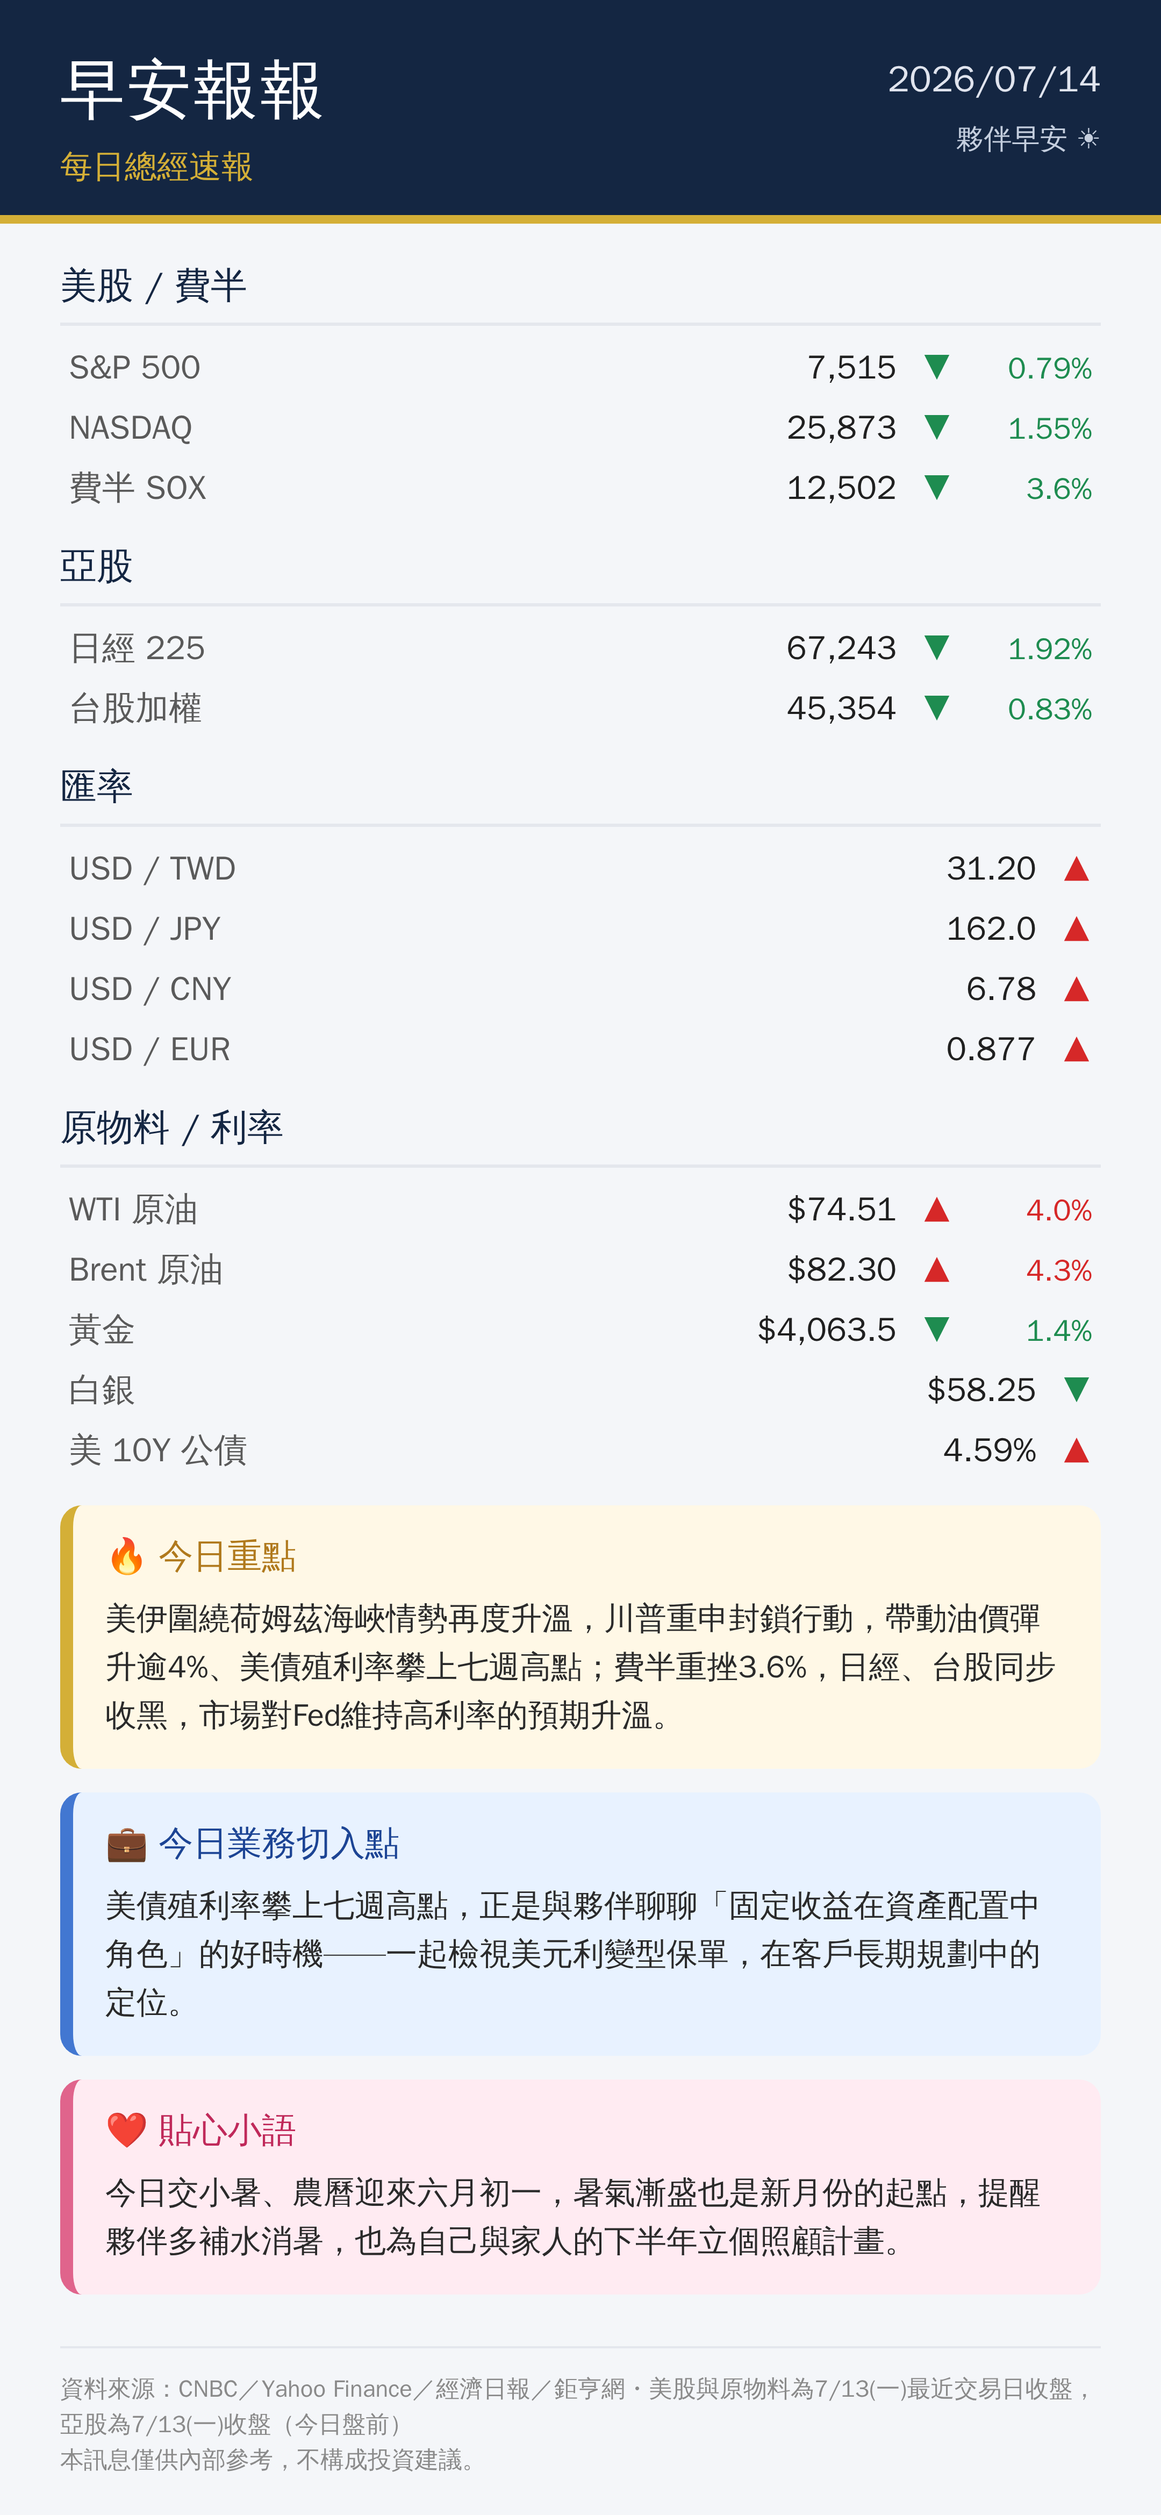
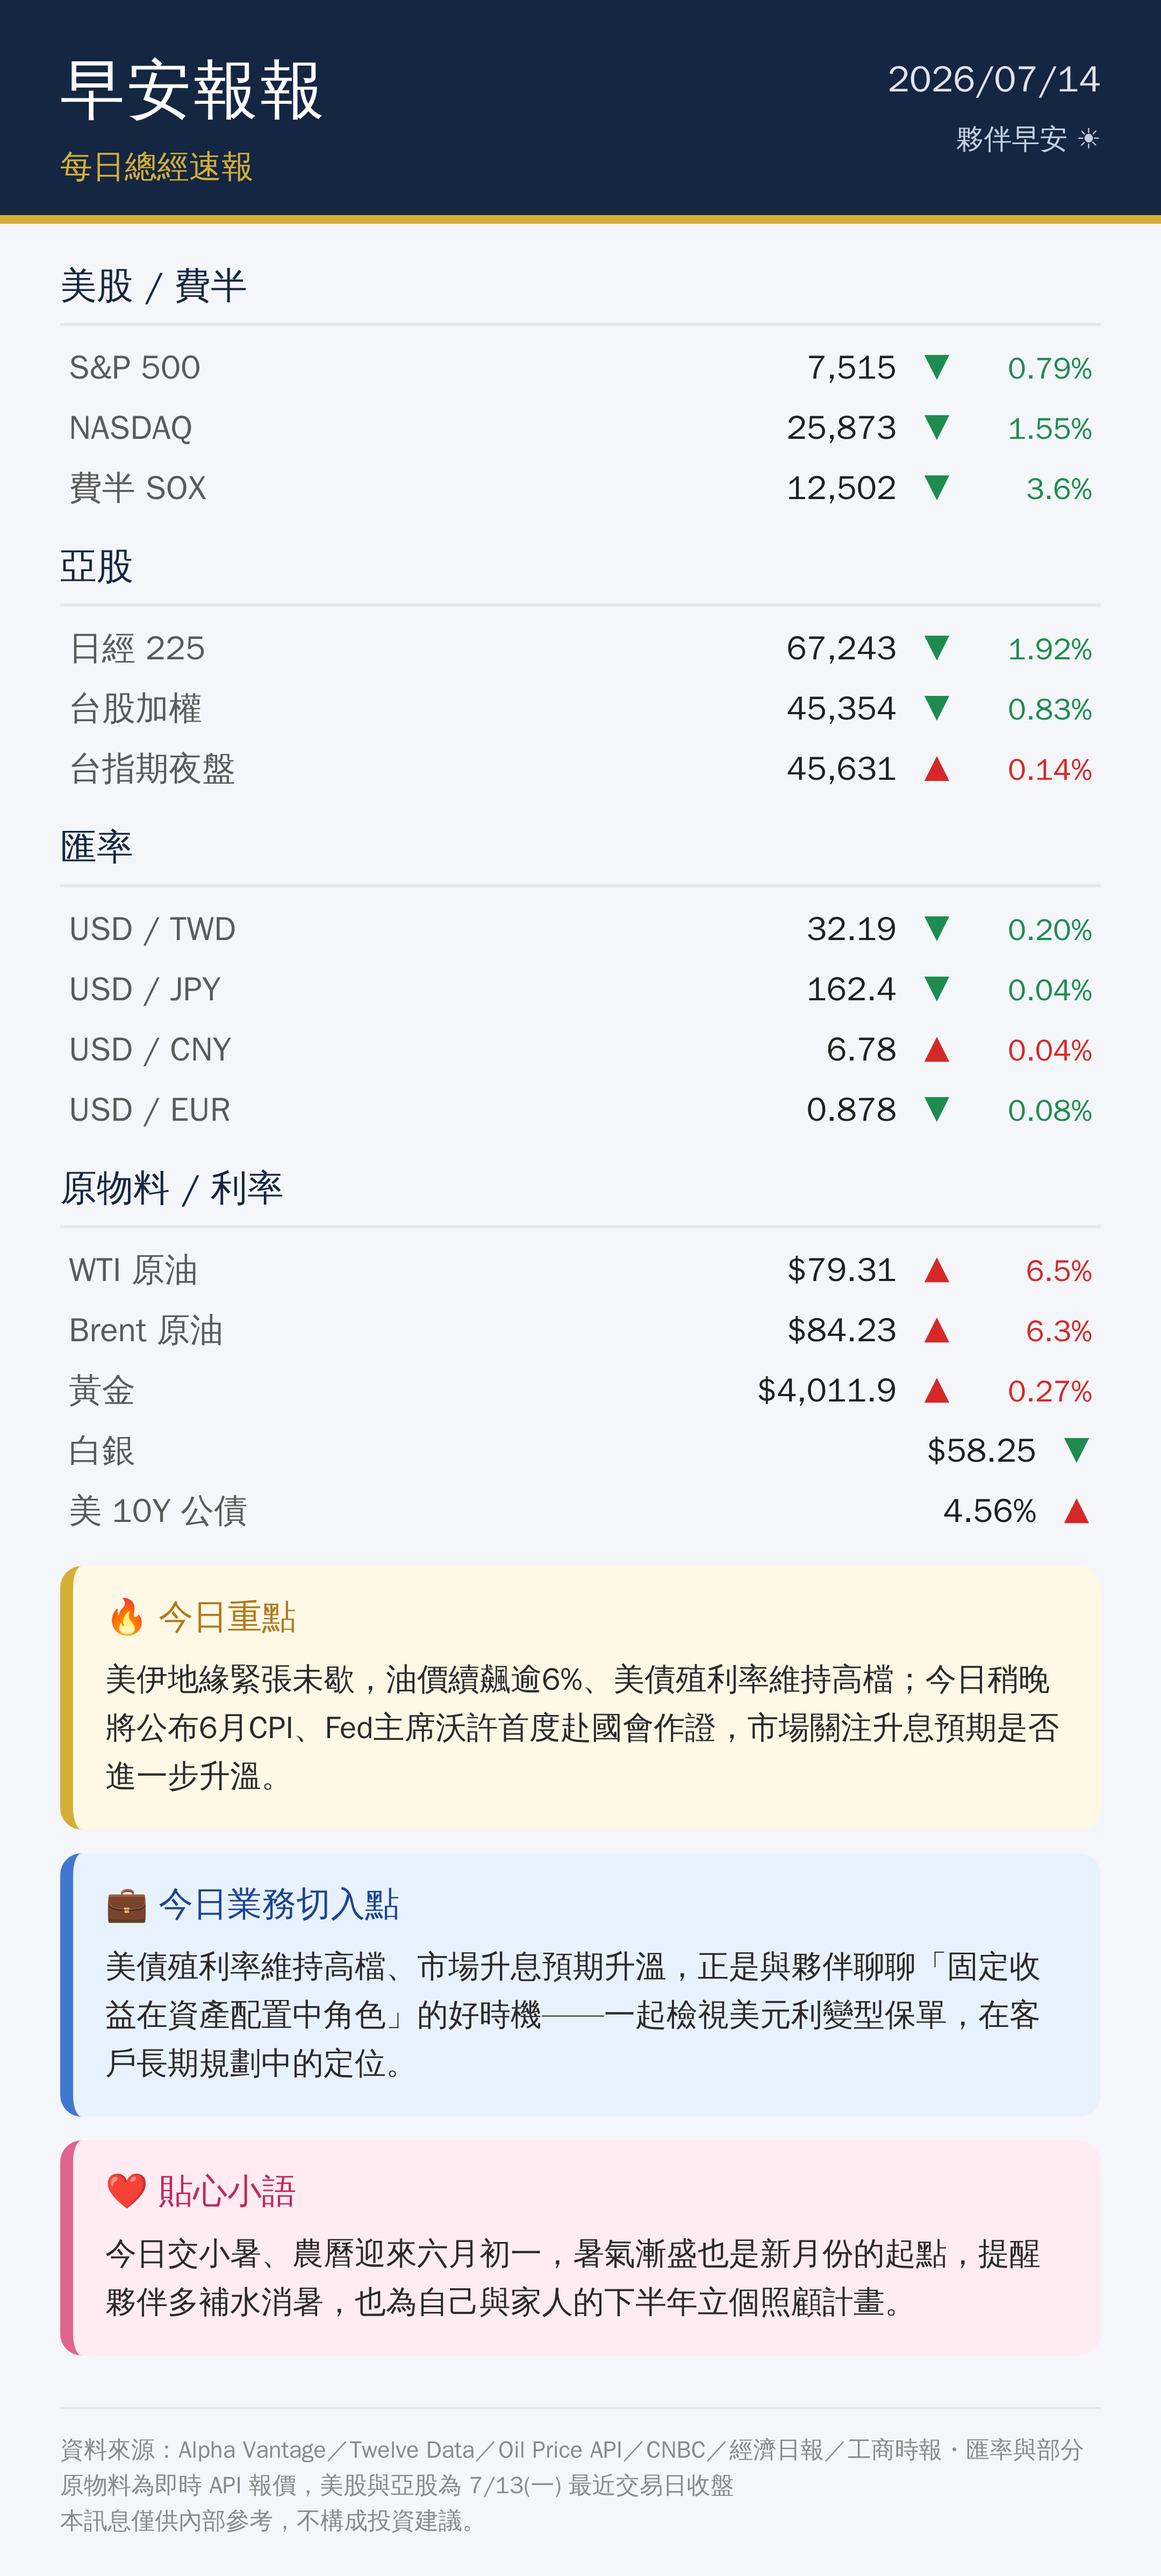
Refresh 2026-07-14 report with live API data and night session
Test run of the new pipeline (PR #8/#9): regenerates today's report
using fetch_market_data.py for fx/commodity_rate (live Alpha Vantage /
Twelve Data / Oil Price API quotes, replacing the earlier WebSearch-only
values) and adds the 台指期夜盤 row via WebSearch, since neither existed
yet when today's report was first produced this morning.

Not re-pushed to LINE -- the 3 groups already received this morning's
version; re-sending would look like a duplicate daily report. Pending
Neil's call on whether to push the update anyway.

Claude-Session: https://claude.ai/code/session_017YedyV3REkLostyBuogJ6w

diff --git a/reports/2026-07-14/card.html b/reports/2026-07-14/card.html
@@ -42,6 +42,6 @@
     <div class="brand-sub">每日總經速報</div>
     <div class="hdr-right"><div class="hdr-date">2026/07/14</div><div class="hdr-hi">夥伴早安 ☀</div></div>
   </div>
-  <div class="body"><div class="sec"><div class="sec-title">美股 / 費半</div><div class="row"><span class="label">S&amp;P 500</span><span class="val">7,515</span><span class="arr" style="color:#1e8c50">▼</span><span class="pct" style="color:#1e8c50">0.79%</span></div><div class="row"><span class="label">NASDAQ</span><span class="val">25,873</span><span class="arr" style="color:#1e8c50">▼</span><span class="pct" style="color:#1e8c50">1.55%</span></div><div class="row"><span class="label">費半 SOX</span><span class="val">12,502</span><span class="arr" style="color:#1e8c50">▼</span><span class="pct" style="color:#1e8c50">3.6%</span></div></div><div class="sec"><div class="sec-title">亞股</div><div class="row"><span class="label">日經 225</span><span class="val">67,243</span><span class="arr" style="color:#1e8c50">▼</span><span class="pct" style="color:#1e8c50">1.92%</span></div><div class="row"><span class="label">台股加權</span><span class="val">45,354</span><span class="arr" style="color:#1e8c50">▼</span><span class="pct" style="color:#1e8c50">0.83%</span></div></div><div class="sec"><div class="sec-title">匯率</div><div class="row"><span class="label">USD / TWD</span><span class="val">31.20</span><span class="arr" style="color:#d62828">▲</span></div><div class="row"><span class="label">USD / JPY</span><span class="val">162.0</span><span class="arr" style="color:#d62828">▲</span></div><div class="row"><span class="label">USD / CNY</span><span class="val">6.78</span><span class="arr" style="color:#d62828">▲</span></div><div class="row"><span class="label">USD / EUR</span><span class="val">0.877</span><span class="arr" style="color:#d62828">▲</span></div></div><div class="sec"><div class="sec-title">原物料 / 利率</div><div class="row"><span class="label">WTI 原油</span><span class="val">$74.51</span><span class="arr" style="color:#d62828">▲</span><span class="pct" style="color:#d62828">4.0%</span></div><div class="row"><span class="label">Brent 原油</span><span class="val">$82.30</span><span class="arr" style="color:#d62828">▲</span><span class="pct" style="color:#d62828">4.3%</span></div><div class="row"><span class="label">黃金</span><span class="val">$4,063.5</span><span class="arr" style="color:#1e8c50">▼</span><span class="pct" style="color:#1e8c50">1.4%</span></div><div class="row"><span class="label">白銀</span><span class="val">$58.25</span><span class="arr" style="color:#1e8c50">▼</span></div><div class="row"><span class="label">美 10Y 公債</span><span class="val">4.59%</span><span class="arr" style="color:#d62828">▲</span></div></div><div class="box box-gold"><div class="box-title">🔥 今日重點</div><div class="box-body">美伊圍繞荷姆茲海峽情勢再度升溫，川普重申封鎖行動，帶動油價彈升逾4%、美債殖利率攀上七週高點；費半重挫3.6%，日經、台股同步收黑，市場對Fed維持高利率的預期升溫。</div></div><div class="box box-blue"><div class="box-title">💼 今日業務切入點</div><div class="box-body">美債殖利率攀上七週高點，正是與夥伴聊聊「固定收益在資產配置中角色」的好時機——一起檢視美元利變型保單，在客戶長期規劃中的定位。</div></div><div class="box box-pink"><div class="box-title">❤ 貼心小語</div><div class="box-body">今日交小暑、農曆迎來六月初一，暑氣漸盛也是新月份的起點，提醒夥伴多補水消暑，也為自己與家人的下半年立個照顧計畫。</div></div></div>
-  <div class="foot">資料來源：CNBC／Yahoo Finance／經濟日報／鉅亨網・美股與原物料為7/13(一)最近交易日收盤，亞股為7/13(一)收盤（今日盤前）<br>本訊息僅供內部參考，不構成投資建議。</div>
+  <div class="body"><div class="sec"><div class="sec-title">美股 / 費半</div><div class="row"><span class="label">S&amp;P 500</span><span class="val">7,515</span><span class="arr" style="color:#1e8c50">▼</span><span class="pct" style="color:#1e8c50">0.79%</span></div><div class="row"><span class="label">NASDAQ</span><span class="val">25,873</span><span class="arr" style="color:#1e8c50">▼</span><span class="pct" style="color:#1e8c50">1.55%</span></div><div class="row"><span class="label">費半 SOX</span><span class="val">12,502</span><span class="arr" style="color:#1e8c50">▼</span><span class="pct" style="color:#1e8c50">3.6%</span></div></div><div class="sec"><div class="sec-title">亞股</div><div class="row"><span class="label">日經 225</span><span class="val">67,243</span><span class="arr" style="color:#1e8c50">▼</span><span class="pct" style="color:#1e8c50">1.92%</span></div><div class="row"><span class="label">台股加權</span><span class="val">45,354</span><span class="arr" style="color:#1e8c50">▼</span><span class="pct" style="color:#1e8c50">0.83%</span></div><div class="row"><span class="label">台指期夜盤</span><span class="val">45,631</span><span class="arr" style="color:#d62828">▲</span><span class="pct" style="color:#d62828">0.14%</span></div></div><div class="sec"><div class="sec-title">匯率</div><div class="row"><span class="label">USD / TWD</span><span class="val">32.19</span><span class="arr" style="color:#1e8c50">▼</span><span class="pct" style="color:#1e8c50">0.20%</span></div><div class="row"><span class="label">USD / JPY</span><span class="val">162.4</span><span class="arr" style="color:#1e8c50">▼</span><span class="pct" style="color:#1e8c50">0.04%</span></div><div class="row"><span class="label">USD / CNY</span><span class="val">6.78</span><span class="arr" style="color:#d62828">▲</span><span class="pct" style="color:#d62828">0.04%</span></div><div class="row"><span class="label">USD / EUR</span><span class="val">0.878</span><span class="arr" style="color:#1e8c50">▼</span><span class="pct" style="color:#1e8c50">0.08%</span></div></div><div class="sec"><div class="sec-title">原物料 / 利率</div><div class="row"><span class="label">WTI 原油</span><span class="val">$79.31</span><span class="arr" style="color:#d62828">▲</span><span class="pct" style="color:#d62828">6.5%</span></div><div class="row"><span class="label">Brent 原油</span><span class="val">$84.23</span><span class="arr" style="color:#d62828">▲</span><span class="pct" style="color:#d62828">6.3%</span></div><div class="row"><span class="label">黃金</span><span class="val">$4,011.9</span><span class="arr" style="color:#d62828">▲</span><span class="pct" style="color:#d62828">0.27%</span></div><div class="row"><span class="label">白銀</span><span class="val">$58.25</span><span class="arr" style="color:#1e8c50">▼</span></div><div class="row"><span class="label">美 10Y 公債</span><span class="val">4.56%</span><span class="arr" style="color:#d62828">▲</span></div></div><div class="box box-gold"><div class="box-title">🔥 今日重點</div><div class="box-body">美伊地緣緊張未歇，油價續飆逾6%、美債殖利率維持高檔；今日稍晚將公布6月CPI、Fed主席沃許首度赴國會作證，市場關注升息預期是否進一步升溫。</div></div><div class="box box-blue"><div class="box-title">💼 今日業務切入點</div><div class="box-body">美債殖利率維持高檔、市場升息預期升溫，正是與夥伴聊聊「固定收益在資產配置中角色」的好時機——一起檢視美元利變型保單，在客戶長期規劃中的定位。</div></div><div class="box box-pink"><div class="box-title">❤ 貼心小語</div><div class="box-body">今日交小暑、農曆迎來六月初一，暑氣漸盛也是新月份的起點，提醒夥伴多補水消暑，也為自己與家人的下半年立個照顧計畫。</div></div></div>
+  <div class="foot">資料來源：Alpha Vantage／Twelve Data／Oil Price API／CNBC／經濟日報／工商時報・匯率與部分原物料為即時 API 報價，美股與亞股為 7/13(一) 最近交易日收盤<br>本訊息僅供內部參考，不構成投資建議。</div>
 </div></body></html>
